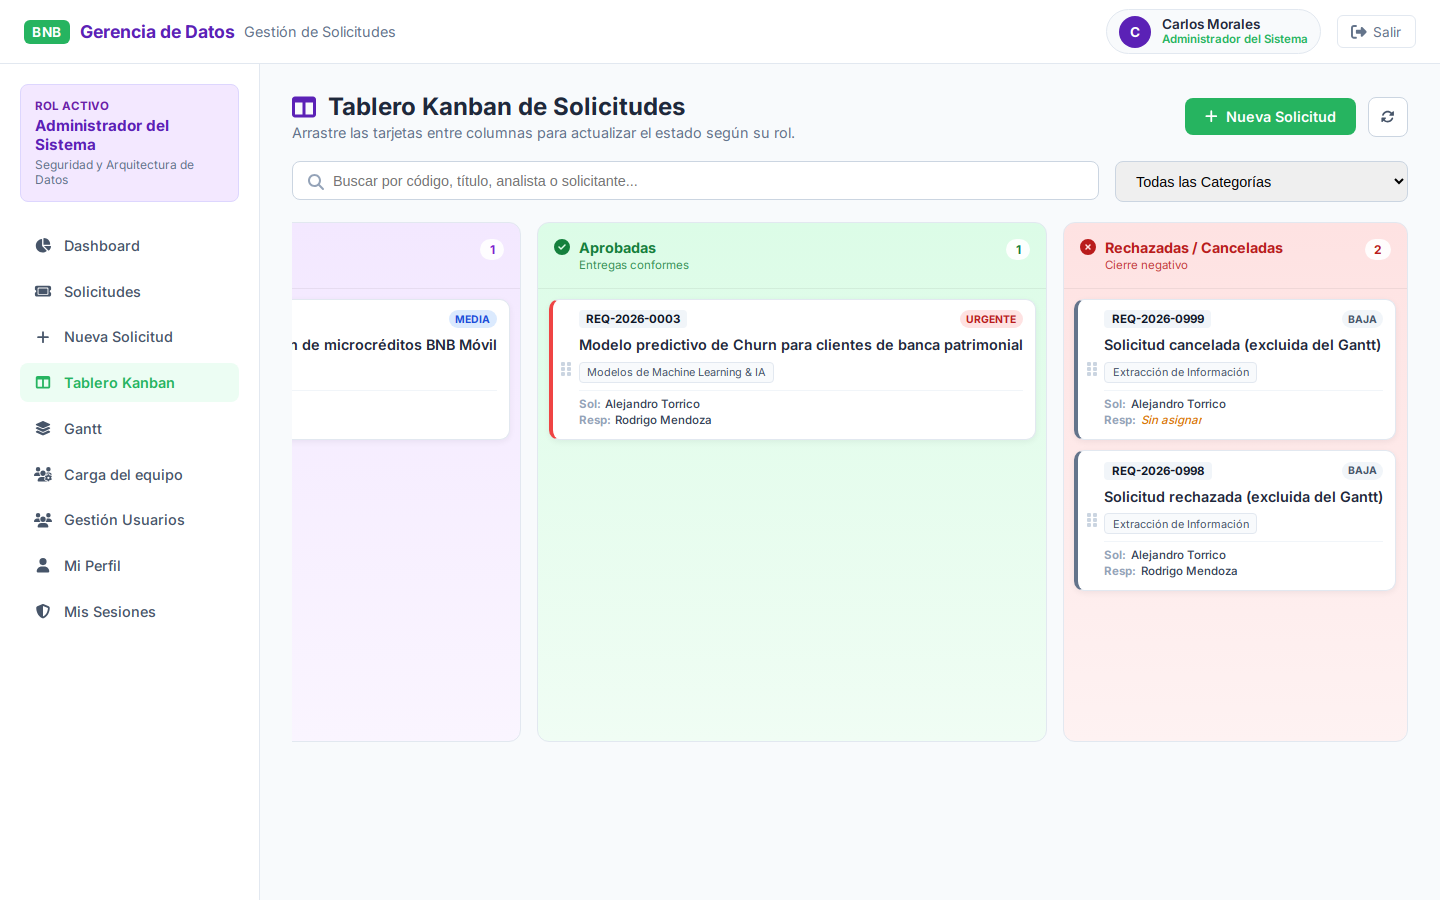
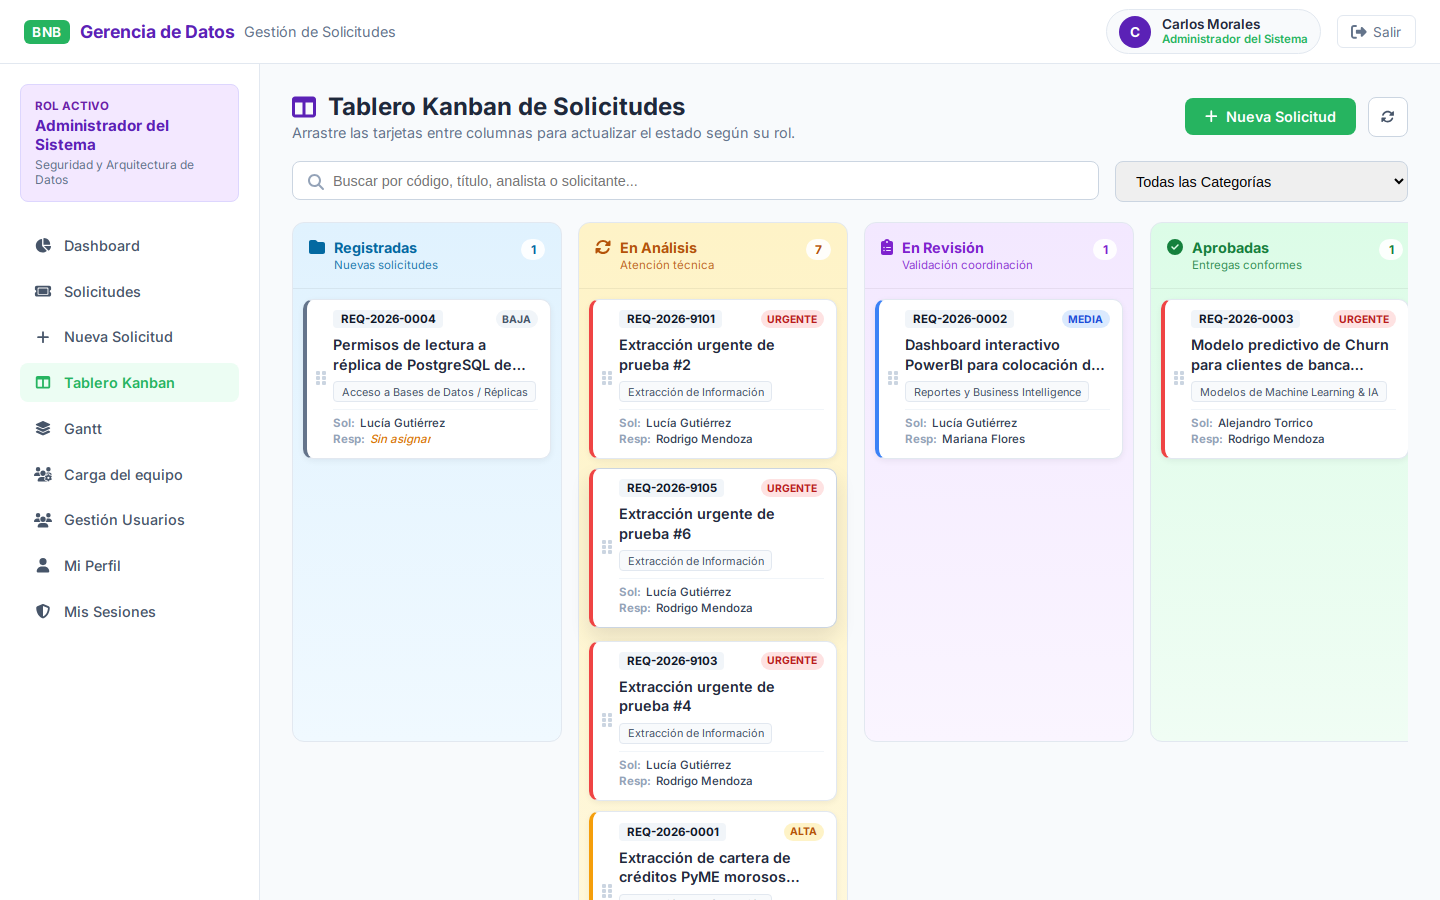
docs(kanban): capturas scroll antes (main 4c98876) y después corregidas
Build real con CSS main vs fix; métricas scrollWidth/clientWidth; scrollbar visible en after.

Changed region(s): [[0.1875, 0.2489, 1.0, 1.0], [0.2188, 0.2489, 0.3125, 0.3111]]

diff --git a/apps/web/src/views/KanbanView.vue b/apps/web/src/views/KanbanView.vue
@@ -518,6 +518,23 @@ onMounted(() => {
   max-width: 100%;
   -webkit-overflow-scrolling: touch;
   scrollbar-gutter: stable;
+  scrollbar-width: thin;
+  scrollbar-color: #64748b #e2e8f0;
+}
+
+.kanban-board::-webkit-scrollbar {
+  height: 12px;
+}
+
+.kanban-board::-webkit-scrollbar-track {
+  background: #e2e8f0;
+  border-radius: 6px;
+}
+
+.kanban-board::-webkit-scrollbar-thumb {
+  background: #64748b;
+  border-radius: 6px;
+  border: 2px solid #e2e8f0;
 }
 
 .kanban-board > :deep(.kanban-column) {
